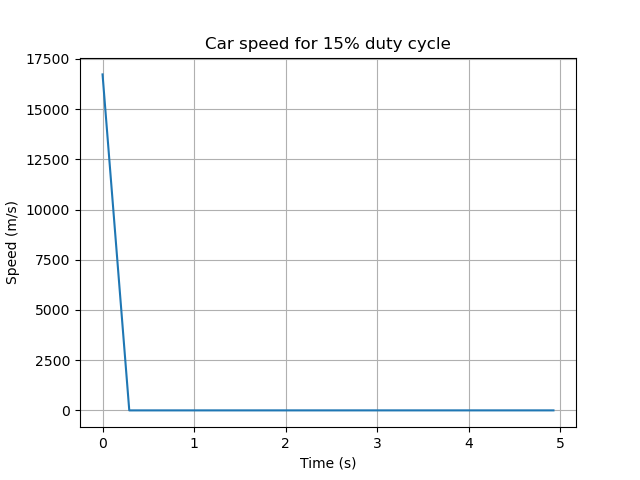
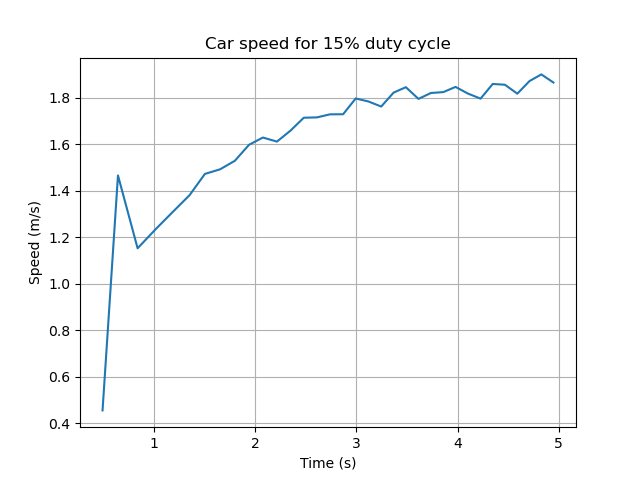
step input

diff --git a/stepInput.py b/stepInput.py
@@ -47,7 +47,7 @@ IO.setup(GPIO_num,IO.IN,IO.PUD_UP)
 
 pca = Servo_Motor_Initialization()
 #Motor_Start(pca)
-Motor_Speed(pca, 0.15)
+#Motor_Speed(pca, 0.15)
 #sleep(1)
 #Motor_Speed(pca, 0.13)
 
@@ -59,8 +59,11 @@ speeds = []
 prev_magnet_time = start_time
 new_magnet_time = 0
 distance = math.pi*0.0711
-
+i = 0
 while time.time() - start_time < run_time:
+    if i == 0:
+        Motor_Speed(pca, 0.15)
+        i = 1
     curr_pin_val = IO.input(GPIO_num)
     if curr_pin_val == 0 and last_pin_val == 1:
         new_magnet_time = time.time()
